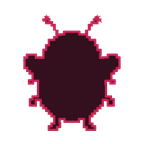
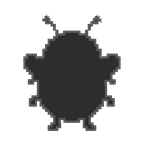
Ruby on the home screen: all-grey shadow bee that flickers (#20)
* DRAFT (awaiting approval): redrawn lower-tier bees + ruby line

Not merged — committed to the working branch for review only.
- Warm, Lukewarm, Cold and Way Off get their own bees, all drawn from the
  same body as the rest of the crew: sunny Warm (rosy cheeks, sparkles),
  faded Lukewarm (flat mouth, sweat drop), icy Cold (shivering "o",
  snowflakes, icicles), grey Way Off (frown, rain cloud). The old
  "thirsty" bee is no longer used.
- Home parade shows all eight tiers worst→best plus the ruby, sized to fit
  320px phones. Hive Hunt results use the new bees too.
- Ruby finish chip: "Only runs that finish 800+ ever see me."
- tools/content/draw_lower_bees.py redraws the four bees. 72 checks pass.

Claude-Session: https://claude.ai/code/session_015yU5Zx4fb5oUGBboTMWZMk

* DRAFT (awaiting approval): six tiers — Bullseye, Hot, Warm, Lukewarm, Cold, Way Off

Old tier names on saved plays map to the new ones (One Off/Razor Close → Hot, Close → Warm).
Drop bee and the orange warm bee retired; home parade is 6 bees + the hidden ruby.

Claude-Session: https://claude.ai/code/session_015yU5Zx4fb5oUGBboTMWZMk

* Six tiers keep the original points curve exactly

Hot covers 150 and 135, Warm covers 115 and 95; every guess scores what it did before.

Claude-Session: https://claude.ai/code/session_015yU5Zx4fb5oUGBboTMWZMk

* DRAFT (awaiting approval): Past games in the Daily card, hunt below; shadowy ruby; <1 hundredths toggle
[…]

diff --git a/public/css/app.css b/public/css/app.css
@@ -376,9 +376,13 @@ input[type="range"]::-moz-range-thumb { width: 22px; height: 22px; border-radius
 /* the ruby bee floats on its own, a single pixel "?" underneath */
 .mystery { flex: none; width: 54px; display: flex; flex-direction: column; align-items: center; gap: 4px; padding-bottom: 2px; }
 .mystery-fly { --i: 6; --lift: 0px; width: 48px; height: 48px; } /* next in line after the diamond: same hover and sway timing as the crew */
-/* a silhouette: a black bee shape with a faint red glow, so it hints rather than shouts */
-.mystery-bee { display: block; width: 100%; height: 100%; image-rendering: pixelated; filter: drop-shadow(0 0 5px rgba(224,36,94,.45));
-  animation: sway 3.2s cubic-bezier(.45,.05,.55,.95) infinite; animation-delay: calc(var(--i) * -0.46s - 0.8s); transform-origin: 50% 40%; }
+/* a grey shadow bee that glitches now and then, as if it isn't quite there */
+.mystery-bee { display: block; width: 100%; height: 100%; image-rendering: pixelated; opacity: .9; }
+/* .bee-fly .mystery-bee outranks the crew's ".bee-fly img" so the flicker applies */
+.bee-fly .mystery-bee { animation: sway 3.2s cubic-bezier(.45,.05,.55,.95) infinite, flicker 4s linear infinite;
+  animation-delay: calc(var(--i) * -0.46s - 0.8s), 1.5s; transform-origin: 50% 40%; }
+@keyframes flicker { 0%, 78% { opacity: .9; translate: 0; } 80% { opacity: .12; translate: 2px 0; } 82% { opacity: .85; translate: -1px 0; } 85% { opacity: .04; translate: 1px 0; } 88%, 100% { opacity: .9; translate: 0; } }
+@media (prefers-reduced-motion: reduce) { .bee-fly .mystery-bee { animation: none; } }
 .mystery-q { width: 10px; height: 16px; image-rendering: pixelated; opacity: .45; filter: grayscale(1); animation: mystery-q 3.2s ease-in-out infinite; }
 @keyframes mystery-q { 50% { opacity: .25; } }
 @media (max-width: 360px) { .mystery { width: 44px; } .mystery-fly { width: 38px; height: 38px; } }

diff --git a/tools/content/draw_ruby_silhouette.py b/tools/content/draw_ruby_silhouette.py
@@ -1,9 +1,9 @@
 """Draws the home-screen ruby silhouette: the ruby bee's body shape (sparkles
-removed) in dark plum with a thin red rim, baked into PNGs so it looks the
+removed) as an all-grey shadow bee with a slightly lighter rim, baked into PNGs so it looks the
 same in every browser (no CSS filters). Run from the repo root."""
 from PIL import Image, ImageFilter
 
-FILL, EDGE = (52, 16, 30, 255), (196, 34, 82, 255)
+FILL, EDGE = (46, 44, 47, 255), (88, 84, 90, 255)
 src = Image.open("public/img/bee-ruby.png").convert("RGBA")
 W, H = src.size
 a = src.getchannel("A").point(lambda v: 255 if v > 100 else 0)
